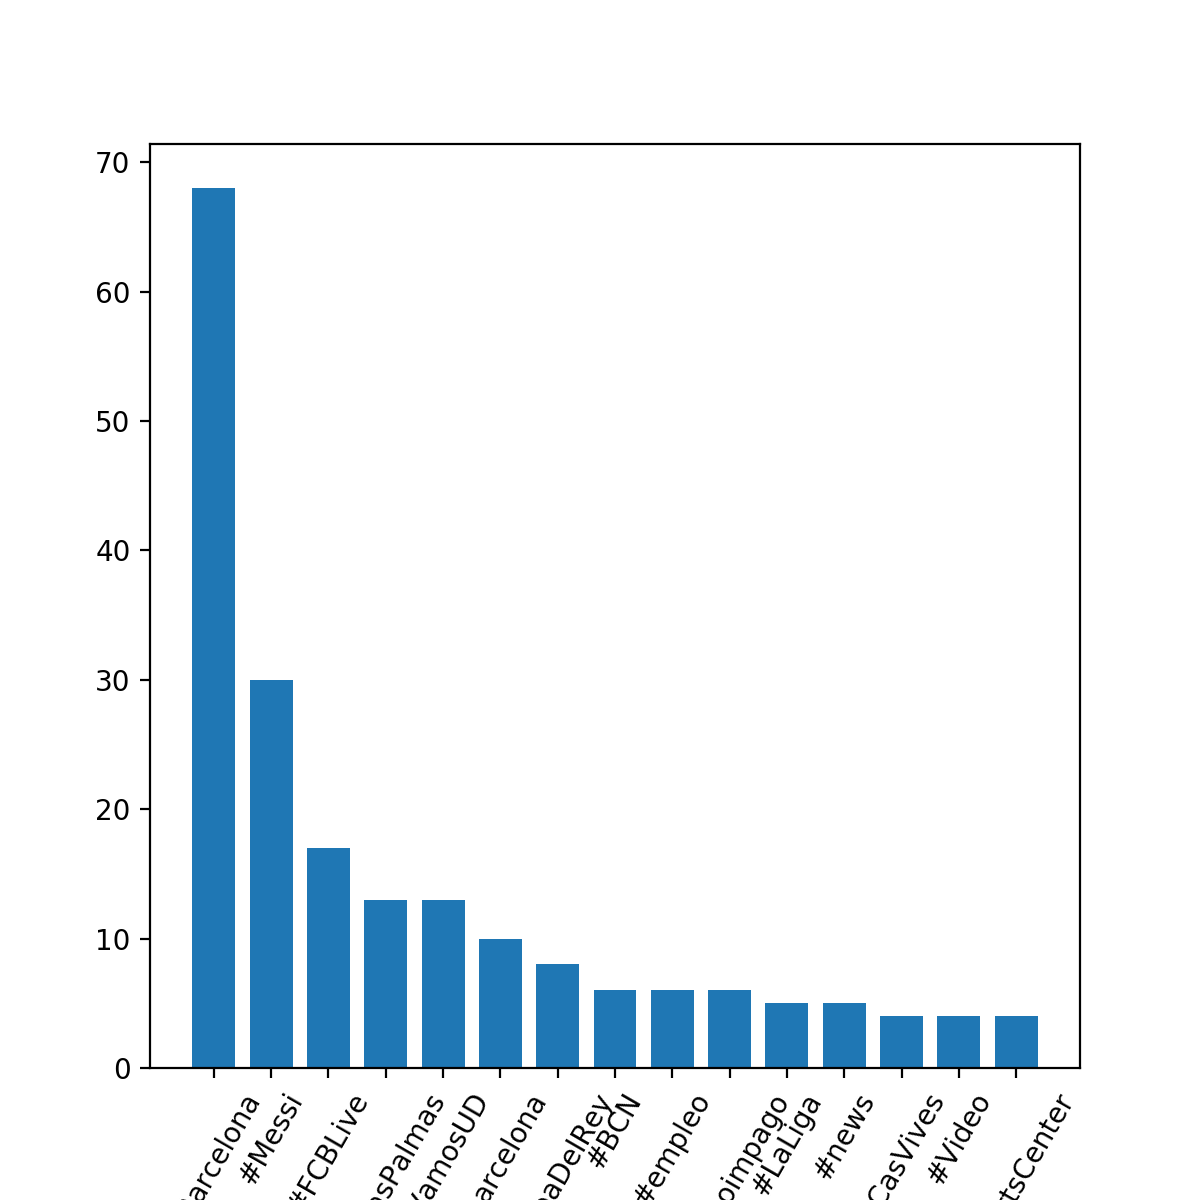
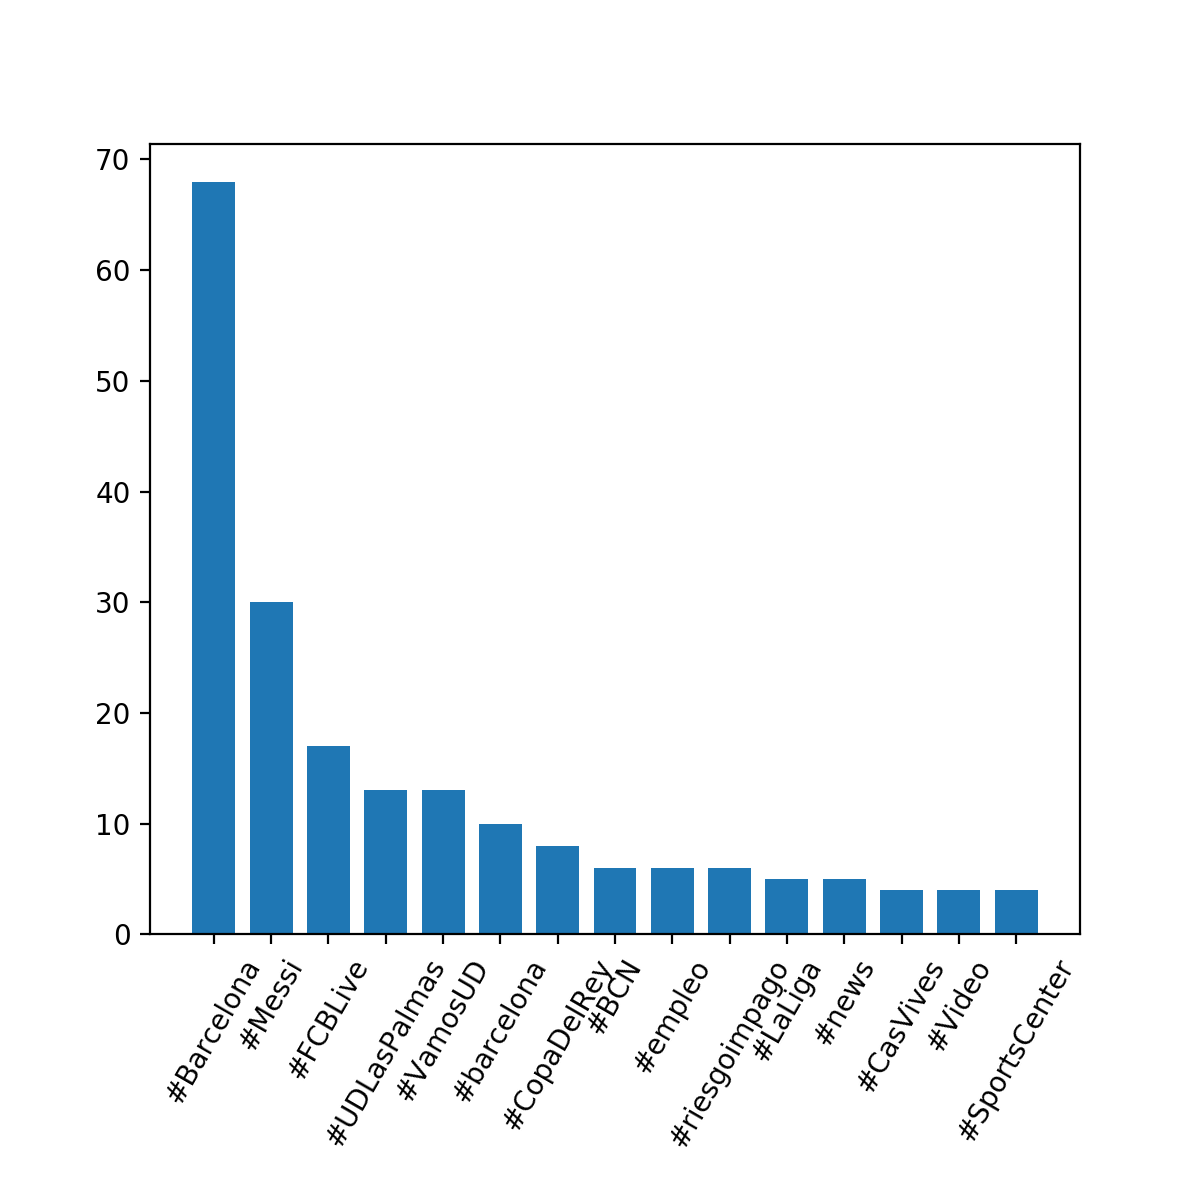
Fix image error

diff --git a/Lab3/Listener.py b/Lab3/Listener.py
@@ -8,7 +8,7 @@ class MyListener(StreamListener):
 
     def on_data(self, data):
         try:
-            with open('ArtificialIntelligenceTweets.json', 'a') as f:
+            with open(os.environ['FILENAME'], 'a') as f:
                 f.write(data)
                 return True
         except BaseException as e:
@@ -23,4 +23,4 @@ auth = OAuthHandler(os.environ['CONSUMER_KEY'], os.environ['CONSUMER_SECRET'])
 auth.set_access_token(os.environ['ACCESS_TOKEN'], os.environ['ACCESS_SECRET'])
 
 twitter_stream = Stream(auth, MyListener())
-twitter_stream.filter(track=['ArtificialIntelligence'])
+twitter_stream.filter(track=[os.environ['FILTER_KW']])

diff --git a/Lab3/CaseStudy.py b/Lab3/CaseStudy.py
@@ -32,6 +32,8 @@ plt.bar(range(len(sorted_x)), sorted_y, width=0.75, align='center')
 plt.xticks(range(len(sorted_x)), sorted_x, rotation=60)
 plt.axis('tight')
 
-plt.show()                  # show it on IDE
 
 plt.savefig('CaseStudy.png')     # save it on a file
+
+##Show needs to come after savefig, if not the image on the local drive was blank.
+plt.show()                  # show it on IDE
